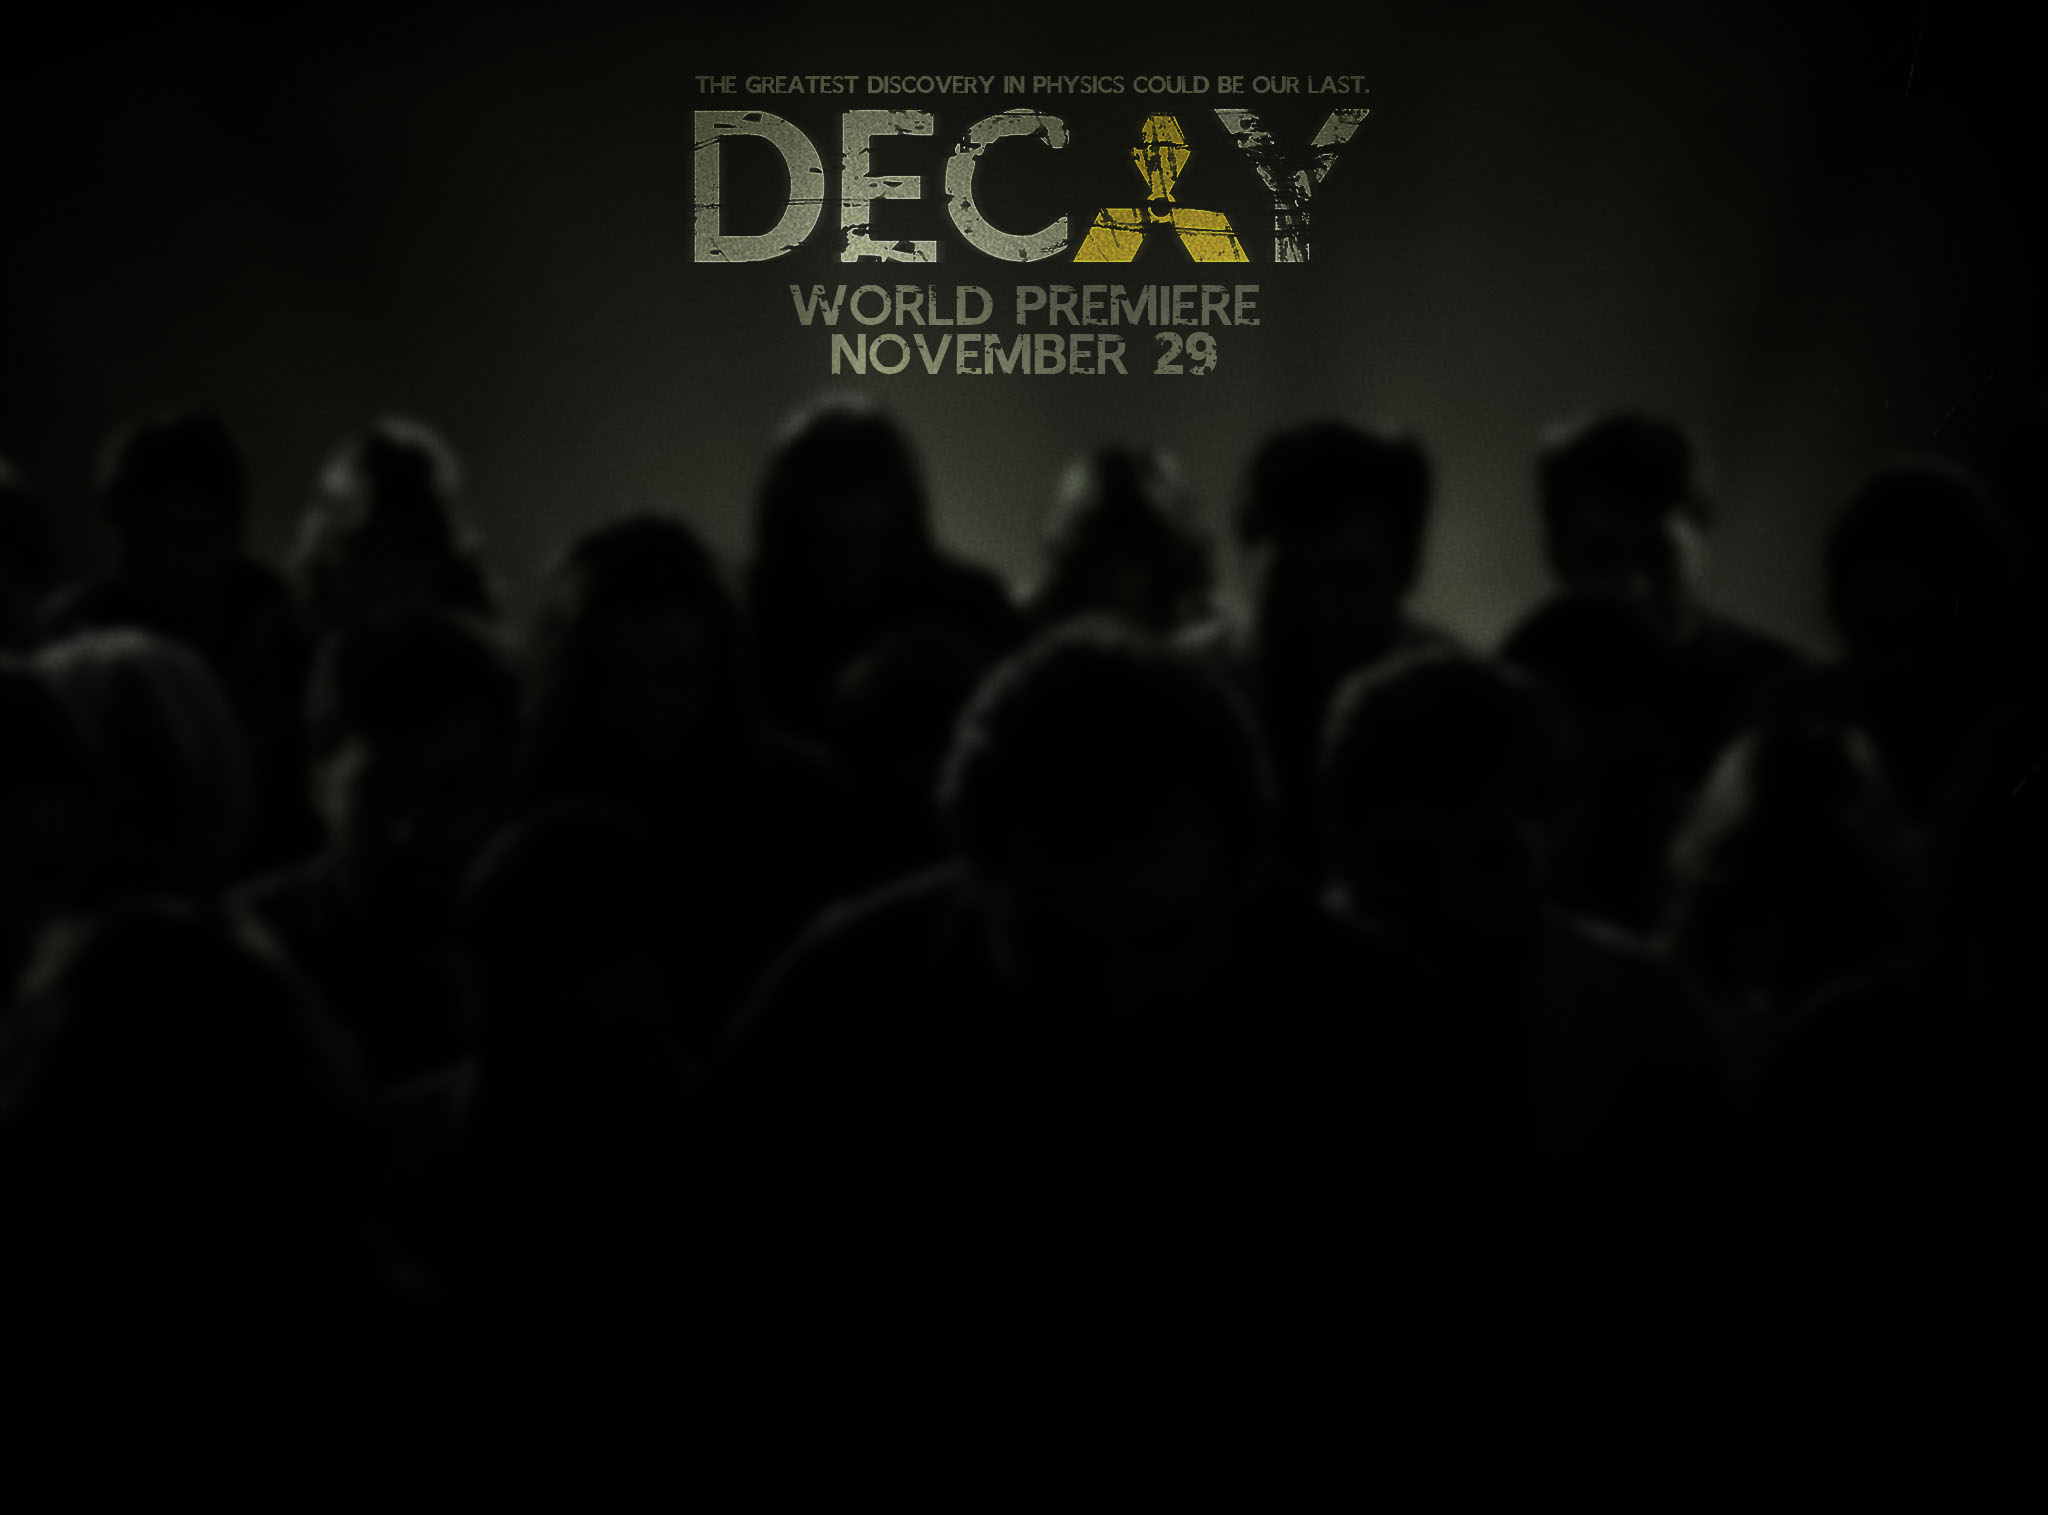
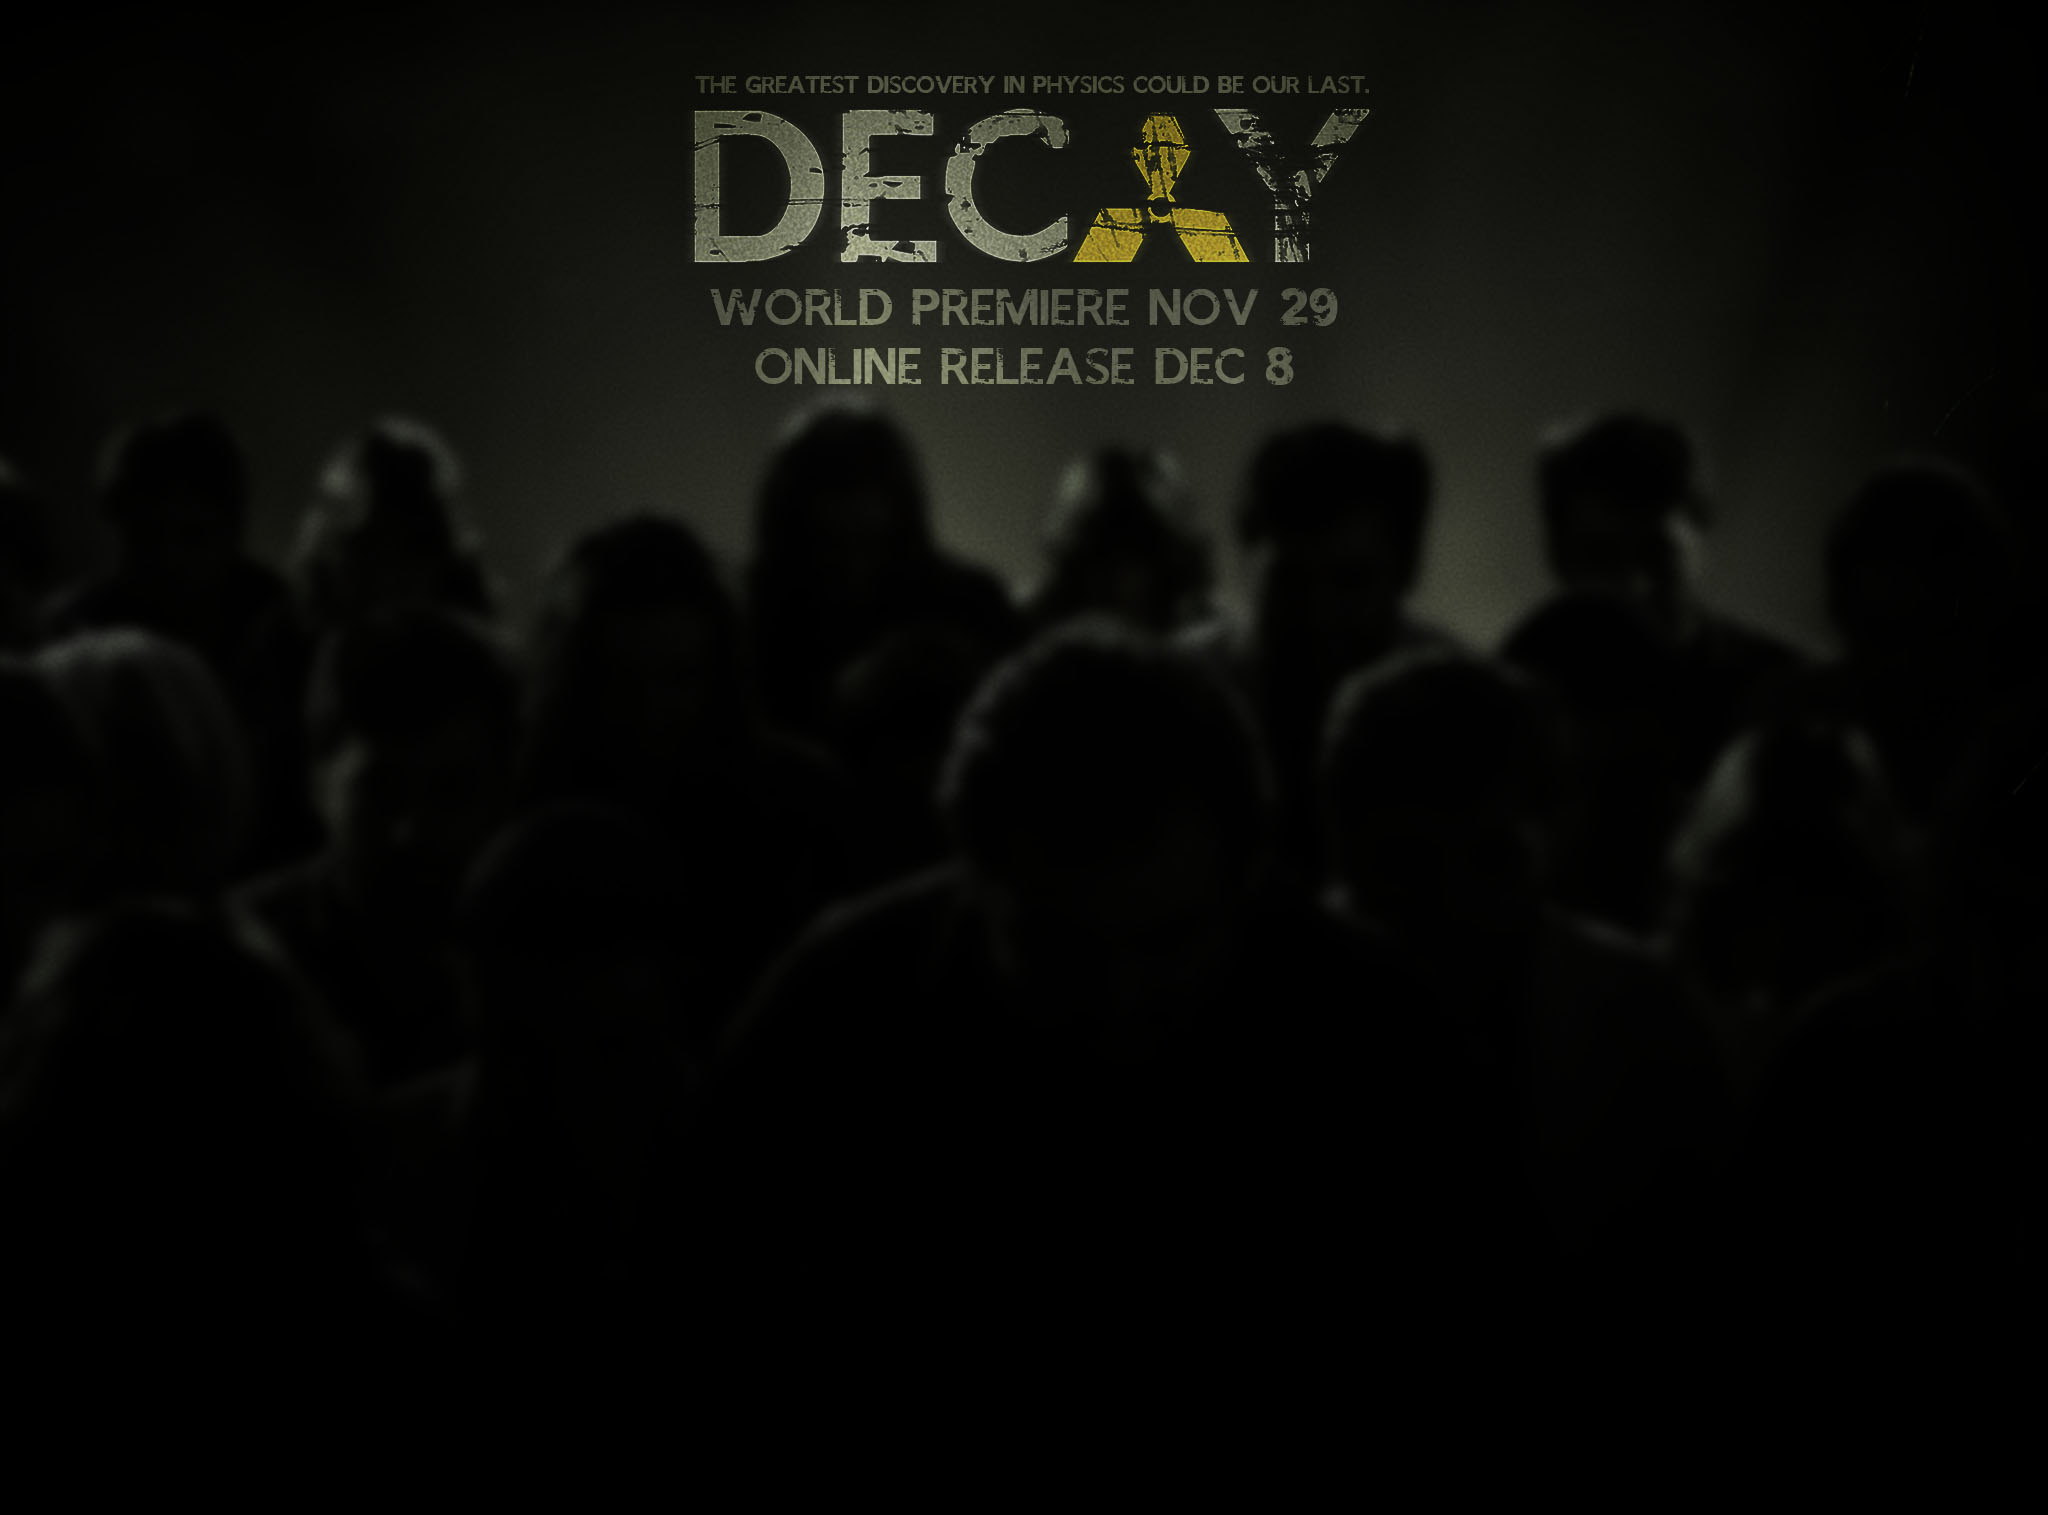
Customised events category and updated graphics

Changed region(s): [[0.3438, 0.1861, 0.6562, 0.2792]]

diff --git a/decay/templates/category.html b/decay/templates/category.html
@@ -2,7 +2,7 @@
 {% block content_title %}{% endblock %}
 {% block title %}{{ SITENAME }} - {{ category }}{% endblock %}
 {% block content %}        
-{% if articles and not category == "Media" %}
+{% if articles and not category == "Media" and not category == "Events" %}
     {% for article in articles_page.object_list %}        
 
         {# First item #}
@@ -70,6 +70,20 @@
             {% endfor %}
     {% endfor %}
         </ol>
+    </section>
+{% elif articles and category == "Events" %}
+    <section id="content" class="body">
+      <h1>Events</h1>
+        Events showing <b>Decay</b> are listed here. Click through for event details. For further information; email <a href="mailto:screenings@decayfilm.com">screenings@decayfilm.com</a>.
+        <ul id="events" class="hfeed" start="{{ articles_paginator.per_page -1 }}">
+    {% for article in articles|reverse %}
+            <li>
+            <div><a href="{{ SITEURL }}{{ article.url }}" title="{{ article.title|striptags }}">
+            <span class="fixwidth">{{ article.title|striptags }}</span><span class="tab">{{ article.locale_date }}</span>
+            </a></div>
+            </li>
+    {% endfor %}
+        </ul>
     </section>
 {% else %}
 <section id="content" class="body">    

diff --git a/decay/static/css/main.css b/decay/static/css/main.css
@@ -27,8 +27,8 @@ h6 {font-size: 1em; color: #959C85}	/* 14px */
 h1, h2, h3, h4, h5, h6 {
 	font-weight: 600;
         font-family: 'Open Sans', sans-serif;
-	line-height: 1.1;
-	margin-bottom: .8em;
+	line-height: 1.5;
+	margin-bottom: .1em;
 }
 h3, h4, h5, h6 { margin-top: .8em; }
 hr { margin: 0px 0px;
@@ -144,6 +144,8 @@ img.left, figure.left {float: left; margin: 0 2em 2em 0;}
 .column li { list-style: none; }
 .credit { display: inline-block; width: 180px; text-align:left; }
 .name { vertical-align: top; }
+
+.fixwidth { display: inline-block; width: 180px; text-align:left; }
 
 
 /*
@@ -334,9 +336,10 @@ img.left, figure.left {float: left; margin: 0 2em 2em 0;}
     width: 49px ! important;
 }
 
-.fb_iframe_widget {
-    text-align:left;
-    margin-left: 0px;
+.fb-like-box.fb_iframe_widget *
+{
+        text-align: left !important;
+        margin-left: 0px;
 }
 
 #links a, #links h1 {

diff --git a/decay/templates/index.html b/decay/templates/index.html
@@ -86,9 +86,6 @@ function fadeInOut(obj, startValue, endValue) {
 </div>
 {% if SOCIAL %}
 <section id="links" class="body">
-<a href="http://www.eventbrite.co.uk/event/4867995305?ref=ebtn" target="_blank" style="display:inline;"><img src="http://www.eventbrite.co.uk/custombutton?eid=4867995305" alt="Eventbrite - DECAY World Premiere" style="width: 120px; height;24px:" /></a></a> <h1 id="logo-banner">FOR PREMIERE IN MANCHESTER, UK</h1> 
-<p><h1 id="logo-banner">FREE ONLINE RELEASE: 8TH DECEMBER</h1></p>
-<br/>
 <span id="Facebook"><a href="http://www.facebook.com/decayfilm"></a></span>
 <span id="Like-Button"><div class="fb-like" data-href="http://www.facebook.com/decayfilm" data-send="false" data-layout="box_count" data-width="90" data-show-faces="false"></div></span>
 <span id="Twitter"><a href="http://www.twitter.com/decayfilm"></a></span>
